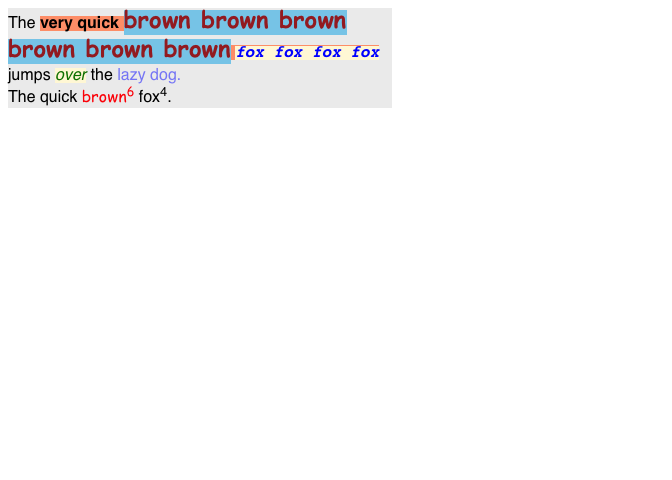
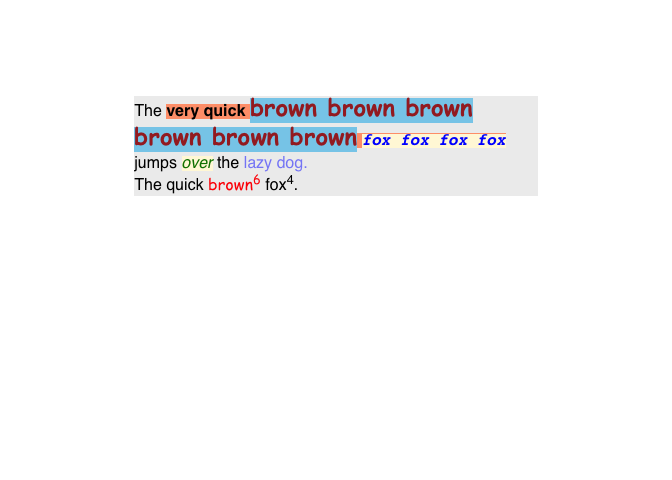
various cleanups

Changed region(s): [[0.0, 0.0, 0.75, 0.4062]]

diff --git a/src/sinab/src/style/user_agent.css b/src/sinab/src/style/user_agent.css
@@ -13,7 +13,7 @@ input[type=hidden i] { display: none !important; }
 
 html, body { display: block; }
 
-body { margin: 8px }
+body { margin: 0px }
 
 em { font-style: italic; }
 strong { font-weight: bold; }

diff --git a/src/sinab/src/test.rs b/src/sinab/src/test.rs
@@ -4,11 +4,17 @@ use crate::graphics_engine::renderer::*;
 use crate::utils::c_helper::*;
 use crate::markdown::md_to_html;
 use crate::paint::render_html;
+use crate::primitives::*;
 
 use std::panic;
 
 #[no_mangle]
-pub extern "C" fn mdl_test_renderer(rdev_ptr: *mut C_RenderDevice, text: *const c_char, css: *const c_char) {
+pub extern "C" fn sinab_test_renderer(
+    rdev_ptr: *mut C_RenderDevice,
+    text: *const c_char,
+    css: *const c_char,
+    width_px: c_double,
+    height_px: c_double ) {
     let rdev = RenderDevice::new(rdev_ptr);
     let text_input = match cstring_to_str(text) {
         Ok(s) => md_to_html(s),
@@ -19,47 +25,13 @@ pub extern "C" fn mdl_test_renderer(rdev_ptr: *mut C_RenderDevice, text: *const 
         Err(..) => "",
     };
 
+    let page_size: Size<CssPx> = Size::new(width_px as f32, height_px as f32);
+
     let result = panic::catch_unwind(move || {
-        render_html(text_input.as_str(), css_input, rdev);
+        render_html(text_input.as_str(), css_input, rdev, page_size);
     });
 
     if result.is_err() {
         println!("Rust error: {:?}", result);
     }
 }
-
-use crate::dom::*;
-
-fn process_nodes(node_id: NodeId, document: &Document) {
-    let node = &document[node_id];
-    let mut eltname = "".to_string();
-
-    if let NodeData::Element(ElementData{ref name, ..}) = node.data {
-        eltname = name.local.to_string();
-        println!("<{}>", eltname);
-    }
-
-    println!("{:?}", node.data);
-
-    if let Some(child_id) = node.first_child {
-        for nid in document.node_and_following_siblings(child_id) {
-            process_nodes(nid, document);
-        }
-
-    }
-
-    if eltname != "" {
-        println!("</{}>", eltname);
-    }
-
-}
-
-
-pub fn test_dom() {
-    let input = "<p>Hello, <em>world!</em> How is it going?</p><strong><em><span>test</span></em></strong>";
-
-    let document = Document::parse_html(input.as_bytes());
-
-    process_nodes(document.root_element(), &document)
-}
-

diff --git a/src/sinab/src/paint.rs b/src/sinab/src/paint.rs
@@ -7,8 +7,7 @@ use crate::graphics_engine::renderer::RenderDevice;
 use crate::style::style_for_element;
 
 impl crate::dom::Document {
-    pub fn paint_onto(&self, rdev: &mut RenderDevice, user_css: Option<&str>) {
-        let page_size: Size<CssPx> = Size::new(400., 800.);
+    pub fn paint_onto(&self, rdev: &mut RenderDevice, user_css: Option<&str>, page_size: Size<CssPx>) {
         let fragments = self.layout(page_size, user_css);
         let containing_block = Rect {
             top_left: Vec2 {
@@ -107,9 +106,9 @@ impl BoxFragment {
 }
 
 
-pub fn render_html(text_input: &str, css_input: &str, mut rdev: RenderDevice) {
+pub fn render_html(text_input: &str, css_input: &str, mut rdev: RenderDevice, page_size: Size<CssPx>) {
     let document = Document::parse_html(text_input.as_bytes());
     let author_styles = &document.parse_stylesheets(Some(css_input));
     let root_element = document.root_element();
-    document.paint_onto(&mut rdev, Some(css_input));
+    document.paint_onto(&mut rdev, Some(css_input), page_size);
 }

diff --git a/src/render_markdown.c b/src/render_markdown.c
@@ -6,15 +6,22 @@
 // Import C headers for rust API
 #include "sinab/sinab.h"
 
-SEXP C_render_markdown(SEXP text_str, SEXP css_str) {
+SEXP C_render_markdown(SEXP text_str, SEXP css_str, SEXP width_in, SEXP height_in) {
+  /*
   double ymax = rdev_device_height();
   RenderDevice* rdev = rdev_new(ymax);
+   */
+  RenderDevice* rdev = rdev_new(0);
+  
+  double* w = REAL(width_in);
+  double* h = REAL(height_in);
   
   if (xlength(text_str) >= 1 && xlength(css_str) >= 1 ) {
-    mdl_test_renderer(
+    sinab_test_renderer(
       rdev,
       Rf_translateCharUTF8(STRING_ELT(text_str, 0)),
-      Rf_translateCharUTF8(STRING_ELT(css_str, 0))
+      Rf_translateCharUTF8(STRING_ELT(css_str, 0)),
+      *w * 96, *h * 96
     );
   }
   

diff --git a/src/init.c b/src/init.c
@@ -6,7 +6,7 @@
 #include "renderer.h"
 
 /* render_markdown.c */
-extern SEXP C_render_markdown(SEXP, SEXP); 
+extern SEXP C_render_markdown(SEXP, SEXP, SEXP, SEXP); 
 
 /* markdown.c */
 extern SEXP C_md_to_html(SEXP);
@@ -16,7 +16,7 @@ extern SEXP run_testthat_tests();
 
 static const R_CallMethodDef CallEntries[] = {
   {"C_md_to_html", (DL_FUNC) &C_md_to_html, 1},
-  {"C_render_markdown", (DL_FUNC) &C_render_markdown, 2},
+  {"C_render_markdown", (DL_FUNC) &C_render_markdown, 4},
   {"test_rdev_new_release", (DL_FUNC) &test_rdev_new_release, 1},
   {"gpar_empty", (DL_FUNC) &gpar_empty, 0},
   {"text_grob", (DL_FUNC) &text_grob, 6},

diff --git a/src/sinab/sinab.h b/src/sinab/sinab.h
@@ -2,10 +2,11 @@
 extern "C" {
 #endif
 
-  extern char* mdl_md_to_html(const char*);
-  extern void mdl_free_cstring(char *); /* call to deallocate char* returned from rust */
+  extern char* sinab_md_to_html(const char*);
+  extern void sinab_free_cstring(char *); /* call to deallocate char* returned from rust */
 
-  extern void mdl_test_renderer(void *render_device, const char* text, const char* css);
+  extern void sinab_test_renderer(void *render_device, const char* text, const char* css,
+                                double width_px, double height_px);
     
 #ifdef __cplusplus
 }

diff --git a/src/markdown.c b/src/markdown.c
@@ -10,9 +10,9 @@ SEXP C_md_to_html(SEXP str) {
   PROTECT(out = allocVector(STRSXP, n));
   
   for (R_xlen_t i = 0; i < n; i++) {
-    char *s = mdl_md_to_html(Rf_translateCharUTF8(STRING_ELT(str, i)));
+    char *s = sinab_md_to_html(Rf_translateCharUTF8(STRING_ELT(str, i)));
     SEXP rs = PROTECT(Rf_mkCharCE(s, CE_UTF8)); 
-    mdl_free_cstring(s); /* make sure the raw string we were given is properly deallocated */
+    sinab_free_cstring(s); /* make sure the raw string we were given is properly deallocated */
     SET_STRING_ELT(out, i, rs);
     UNPROTECT(1);
   }

diff --git a/src/sinab/src/utils/c_helper.rs b/src/sinab/src/utils/c_helper.rs
@@ -1,4 +1,4 @@
-pub use std::os::raw::c_char;
+pub use std::os::raw::{c_char, c_int, c_double};
 
 use std::ffi::{CStr, CString};
 use std::str::Utf8Error;
@@ -23,7 +23,7 @@ pub fn str_to_cstring(s: &str) -> *mut c_char {
 /// Delete a string created with `str_to_c_char()`. Can be called from C on
 /// a string returned from rust.
 #[no_mangle]
-pub extern "C" fn mdl_free_cstring(s: *mut c_char) {
+pub extern "C" fn sinab_free_cstring(s: *mut c_char) {
     unsafe {
         if s.is_null() {
             return;

diff --git a/src/sinab/src/markdown.rs b/src/sinab/src/markdown.rs
@@ -5,7 +5,7 @@ use pulldown_cmark::{html, Options, Parser};
 
 /// External C interface to `md_to_html()`.
 #[no_mangle]
-pub extern "C" fn mdl_md_to_html(text: *const c_char) -> *mut c_char {
+pub extern "C" fn sinab_md_to_html(text: *const c_char) -> *mut c_char {
     let html_output = match cstring_to_str(text) {
         Ok(s) => md_to_html(s),
         Err(..) => "".to_string(),

diff --git a/README.md b/README.md
@@ -7,8 +7,8 @@ A basic html rendering engine for R, written in Rust. The purpose is not
 to write a browser, but rather to provide the ability to render simple,
 static html documents to an R graphics device.
 
-An initial rendering engine has been implemented, though it is for
-demonstration purposes only at this time:
+An initial rendering engine has been implemented, though its feature set
+remains extremely limited at this time.
 
 ``` r
 library(sinab)
@@ -30,7 +30,11 @@ mdtext <-
 *fox fox fox fox*** jumps *over* the <span style="color:#0000ff80">lazy
 dog.</span><br>The quick <span class="brown">brown<sup>6</sup></span> fox<sup>4</sup>.'
 
-g <- render_markdown(mdtext, css)
+g <- html_grob(
+  mdtext,
+  x = unit(0.2, "npc"), y = unit(0.8, "npc"), width = unit(0.6, "npc"),
+  css = css
+)
 grid.newpage()
 grid.draw(g)
 ```
@@ -43,3 +47,48 @@ Simple markdown-to-html conversion is also implemented:
 md_to_html("This is *a* **test**.")
 #> [1] "<p>This is <em>a</em> <strong>test</strong>.</p>\n"
 ```
+
+## FAQ
+
+  - **Why is HTML/CSS feature X, Y, or Z not available?**  
+    Rendering is done with a purpose-built layouting pipeline, and to
+    date only a small subset of all possible features has been
+    implemented.
+
+  - **Will you support Javascript?**  
+    Probably not. The goal for Sinab is rendering of static pages.
+    Interactivity doesn’t work well with R graphics devices.
+
+  - **Is MathML supported?**  
+    Not at this time.
+
+  - **Why is rendering so slow?**  
+    The Sinab library itself is actually quite fast. Slowness comes
+    mostly from R graphics devices. In particular, text shaping is
+    extremely slow on some graphics devices. For faster rendering, try
+    one of the graphics devices provided by the ragg library, such as
+    `agg_png()`.
+
+  - **Why aren’t you supporting links (i.e., the `<a>` tag)?**  
+    This is a limitation of the current R graphics device API. There is
+    simply no way to create a link in an R graphics device. Once this
+    feature gets added, it will be easy to support it in Sinab.
+
+## Acknowledgments
+
+The actual HTML/CSS parsing and rendering code is written in Rust, and
+it draws heavily from software developed for the Servo project. HTML
+parsing is done with [html5ever](https://github.com/servo/html5ever),
+CSS parsing is done with
+[cssparser](https://github.com/servo/rust-cssparser), and CSS selectors
+are implemented using the
+[selectors](https://github.com/servo/servo/tree/master/components/selectors)
+crate. DOM, layout, and rendering is using custom code that is in no
+small part based on the experimental
+[Victor](https://github.com/SimonSapin/victor) project written by Simon
+Sapin.
+
+Markdown to HTML conversion is performed through the
+[pulldown-cmark](https://github.com/raphlinus/pulldown-cmark) crate,
+which implements a lightweight Markdown parser that complies with the
+[CommonMark spec.](https://spec.commonmark.org/)
